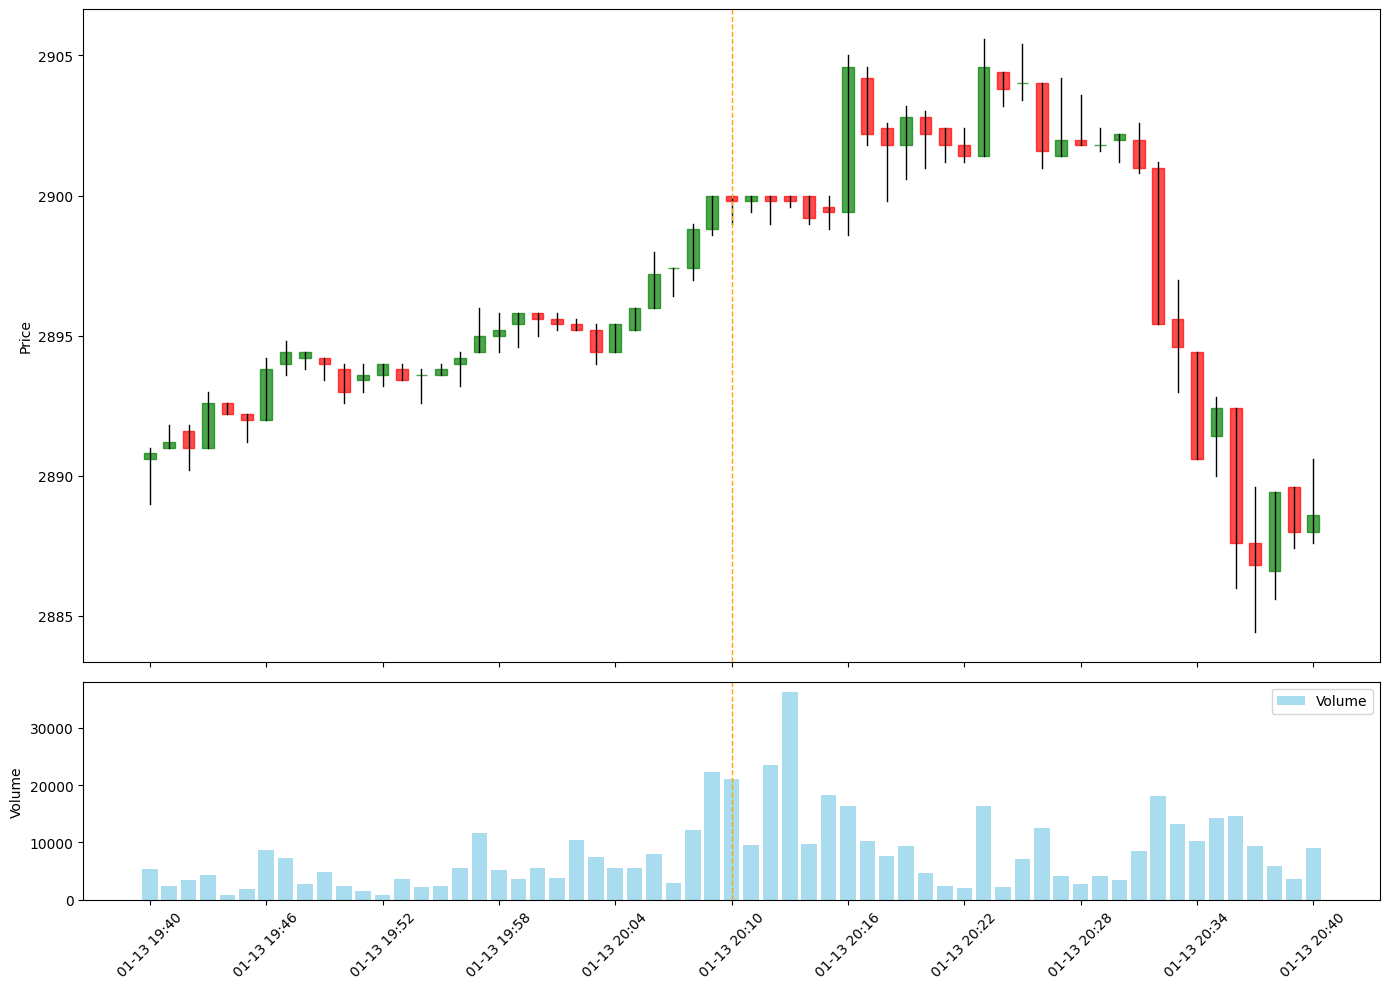
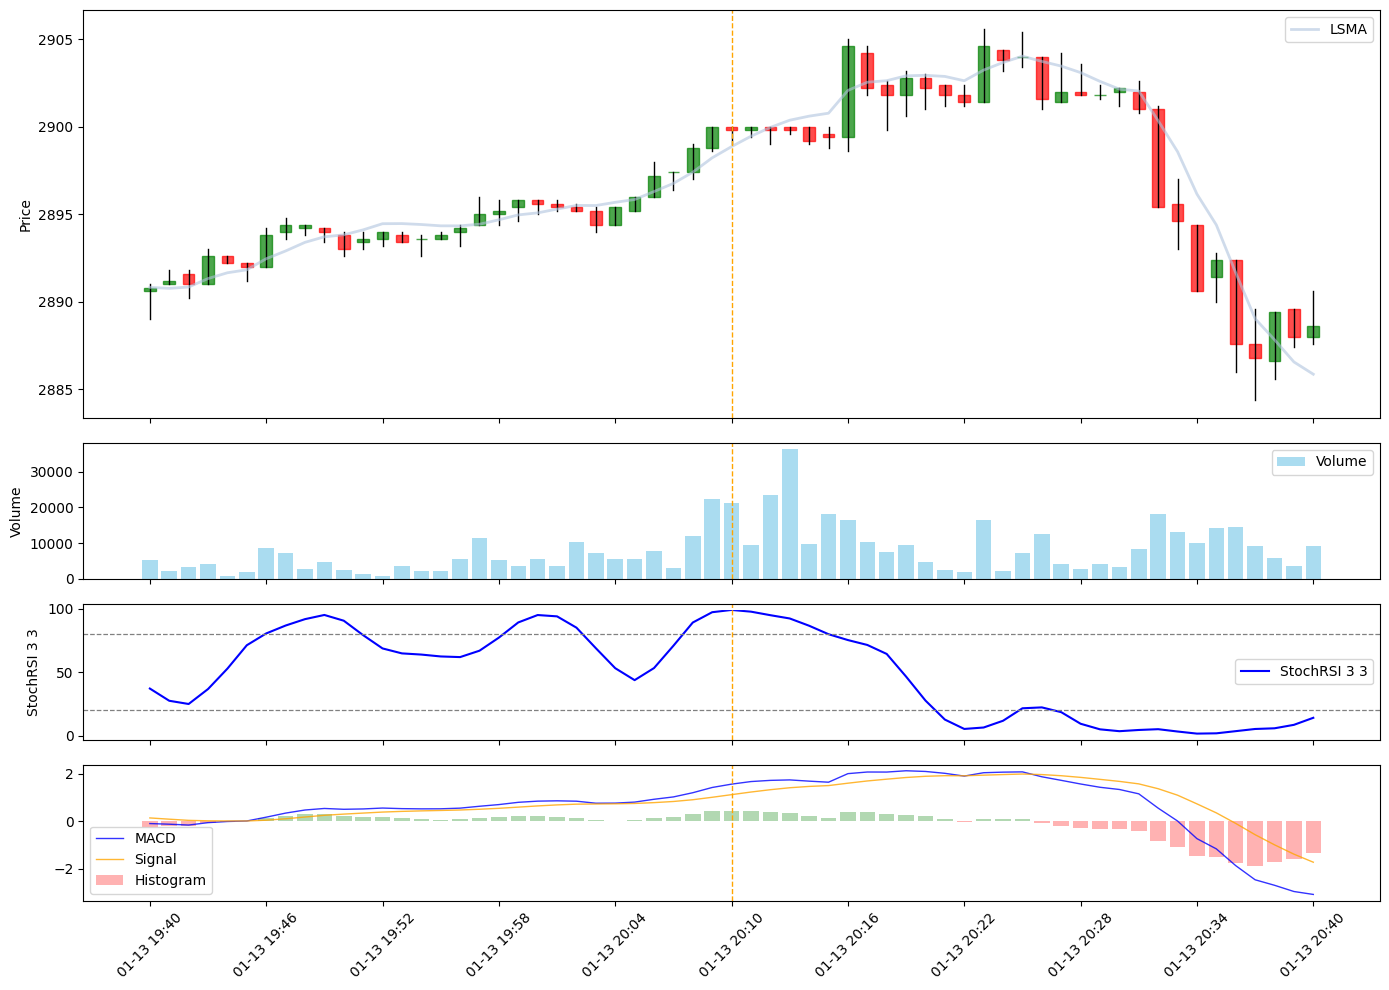
fix plotting

diff --git a/pandastock/candles/accessor.py b/pandastock/candles/accessor.py
@@ -12,14 +12,19 @@ from pandastock.indicators.base import Indicator, PlotPosition
 @pd.api.extensions.register_dataframe_accessor('candles')
 class CandlesAccessor:
 
+    _indicators_storage: dict[int, dict[str, Indicator]] = {}
+    _indicators_mappings_storage: dict[int, dict[Indicator, dict[str, str]]] = {}
+
     def __init__(self, pandas_obj):
         self._validate(pandas_obj)
+
         self._obj = pandas_obj
+        self._obj_id = id(pandas_obj)
 
-        self._indicators: dict[str, Indicator] = {}
-
-        # {RSI(...): {'rsi_14__rsi': 'rsi'}}
-        self._indicators_col_names_mappings: dict[Indicator, dict[str, str]] = defaultdict(dict)
+        if self._obj_id not in self._indicators_storage:
+            self._indicators_storage[self._obj_id] = {}
+        if self._obj_id not in self._indicators_mappings_storage:
+            self._indicators_mappings_storage[self._obj_id] = defaultdict(dict)
 
     def _validate(self, pandas_obj):
         required_columns = ['open', 'high', 'low', 'close', 'volume']
@@ -29,13 +34,13 @@ class CandlesAccessor:
             )
 
     def add_indicators(self, **kwargs: Indicator) -> None:
-        self._indicators.update(kwargs)
+        self._indicators_storage[self._obj_id].update(kwargs)
         for name, indicator in kwargs.items():
             indicator_values = indicator.build(self._obj)
-            for col in indicator.build(self._obj):
+            for col in indicator_values:
                 new_col = f'{name}__{col}'
                 self._obj[new_col] = indicator_values[col]
-                self._indicators_col_names_mappings[indicator][new_col] = col  # type: ignore
+                self._indicators_mappings_storage[self._obj_id][indicator][new_col] = col  # type: ignore
 
     def _plot_candles(self, left: int, right: int, axis: Axes) -> None:
         for idx, (time, row) in enumerate(self._obj[left:right].iterrows()):
@@ -67,7 +72,7 @@ class CandlesAccessor:
     def _plot_indicators_over(self, left: int, right: int, axes: Axes) -> None:
         indicators = {
             n: i
-            for n, i in self._indicators.items()
+            for n, i in self._indicators_storage[self._obj_id].items()
             if i.plot_position == PlotPosition.over
         }
 
@@ -75,8 +80,10 @@ class CandlesAccessor:
             indicator.plot(
                 (
                     self
-                    ._obj[left:right][list(self._indicators_col_names_mappings[indicator].keys())]
-                    .rename(columns=self._indicators_col_names_mappings[indicator])
+                    ._obj[left:right][
+                        list(self._indicators_mappings_storage[self._obj_id][indicator].keys())
+                    ]
+                    .rename(columns=self._indicators_mappings_storage[self._obj_id][indicator])
                 ),
                 axes,
             )
@@ -84,15 +91,17 @@ class CandlesAccessor:
     def _plot_indicators_under(self, left: int, right: int, axes_list: list[Axes]) -> None:
         indicators = {
             n: i
-            for n, i in self._indicators.items()
+            for n, i in self._indicators_storage[self._obj_id].items()
             if i.plot_position == PlotPosition.under
         }
         for axes, (_, indicator) in zip(axes_list, indicators.items()):
             indicator.plot(
                 (
                     self
-                    ._obj[left:right][list(self._indicators_col_names_mappings[indicator].keys())]
-                    .rename(columns=self._indicators_col_names_mappings[indicator])
+                    ._obj[left:right][
+                        list(self._indicators_mappings_storage[self._obj_id][indicator].keys())
+                    ]
+                    .rename(columns=self._indicators_mappings_storage[self._obj_id][indicator])
                 ),
                 axes,
             )
@@ -119,7 +128,11 @@ class CandlesAccessor:
 
         subplots_count = (
             2
-            + sum(1 for i in self._indicators.values() if i.plot_position == PlotPosition.under)
+            + sum(
+                1
+                for i in self._indicators_storage[self._obj_id].values()
+                if i.plot_position == PlotPosition.under
+            )
         )
         _, axes = plt.subplots(
             nrows=subplots_count,  # +1 for volume
